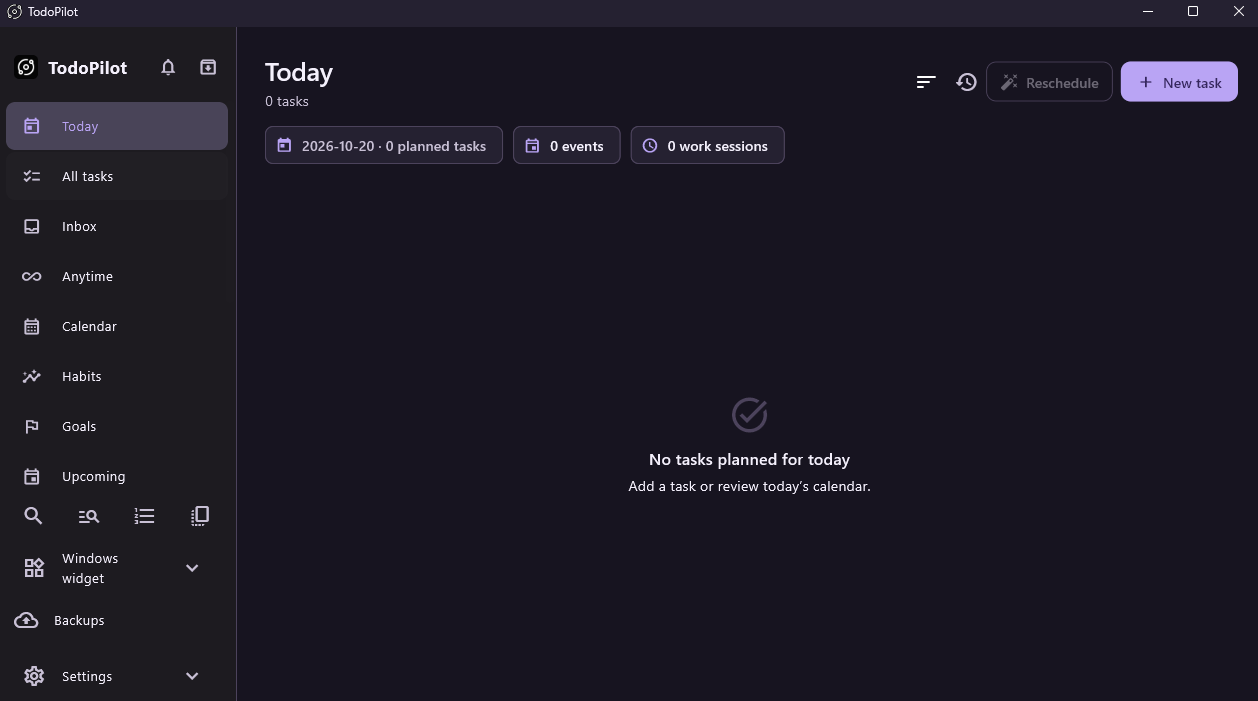
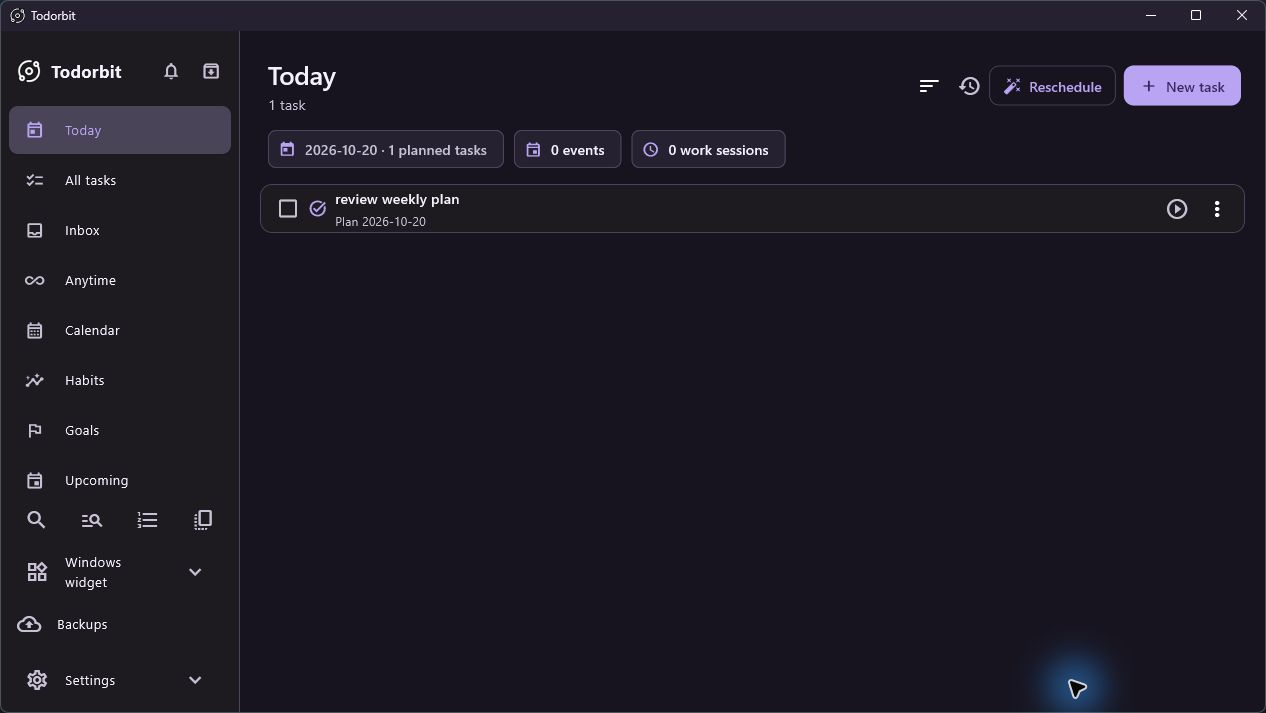
Correct Todorbit release screenshot and audit GitHub readiness

diff --git a/docs/RELEASE_AUDIT.md b/docs/RELEASE_AUDIT.md
@@ -11,7 +11,7 @@ The normal installed application and personal data were not used for acceptance.
 | Installed upgrade and uninstall | Inno Setup compiles, but a fresh install, registered TodoPilot upgrade, uninstall, and reinstall have not been run in a disposable Windows user or VM. Confirm profile selection, data retention, shortcuts, and widget sign-in migration with [the acceptance matrix](ACCEPTANCE.md). |
 | Native desktop behavior | A packaged widget self-test and earlier read-only Explorer attachment inspection do not prove Win+D visibility, wallpaper opacity, input, DPI, multiple monitors, or Explorer recovery. Complete the [manual widget checklist](windows-widget.md). |
 | Broad GUI acceptance | The extracted 1.0.3 portable app opened from a path with spaces and showed the renamed dark Today UI. A disposable task dated today appeared and persisted after restart; a second extraction was empty. The earlier isolated 1.0.2 app showed the outlined mark in both light and dark themes and completed an Anytime task. Other end-to-end flows in [the acceptance matrix](ACCEPTANCE.md) remain open. |
-| Distribution | The packages are unsigned, Windows 10 has not been tested, and the GitHub account and destination repository have not been confirmed. No public release is authorized. |
+| Distribution | The packages are unsigned and Windows 10 has not been tested. The authenticated `2HIK4` account and private `2HIK4/Todorbit` repository are confirmed. No public release is authorized. |
 
 ## Resolved decisions and release work
 
@@ -19,7 +19,15 @@ The normal installed application and personal data were not used for acceptance.
 - Public UI, executable, widget, shortcut, package, and documentation names use Todorbit. The installer AppId, `%LOCALAPPDATA%\Programs\Life Manager` installation directory, `%APPDATA%\TodoPilot` profile, older `%APPDATA%\Life Manager` profile, marker, and native IPC identifiers remain stable.
 - Upgrade packaging removes only exact old executable and shortcut names. It changes an existing widget sign-in entry only when it exactly matches the old installed executable; this still needs installed verification.
 - The bundle includes Flutter `NOTICES.Z`, the project `LICENSE`, Lucide attribution, .NET runtime and Windows Desktop licenses and notices, and SQLitePCLRaw license and notice. See [third-party notices](../THIRD_PARTY_NOTICES.md).
-- A Windows 2022 GitHub Actions workflow runs analysis, serial Flutter tests, Release build, and the packaged widget self-test. It has not run on GitHub yet.
+- The Windows 2022 GitHub Actions workflow passed analysis, serial Flutter tests, Release build, and the packaged widget self-test at tag `v1.0.3` (`919c618`).
+
+## GitHub and package verification on 2026-10-20
+
+- `v1.0.3` resolves to `919c618`; the existing private prerelease targets the development branch at that commit. All four observed Windows workflow runs passed, including the tag run. The only change after the original `67619fe` package checkpoint is the README screenshot; application source is unchanged. No binary or tag was replaced.
+- Local installer and portable hashes match `release/SHA256SUMS.txt` and the GitHub asset digests. The uploaded checksum file's digest also matches the local file. The ZIP CRC check passed; its 33 entries include four directory entries and 29 files. No database, backup, log, key, or obsolete executable appears in its entries. The installer remains unsigned; its installed behavior has not been tested.
+- The README, MIT license, contributor and security guidance, third-party notices, issue template, PR template, and source build commands are present. Visual inspection found that the screenshot committed at `919c618` displayed old TodoPilot branding and an empty Today view. The original `67619fe` sample-profile image shows Todorbit and a task and has been restored on the development branch. The immutable prerelease tag still contains the incorrect screenshot; resolving that tag snapshot requires a reviewed release strategy. A scoped scan of 51 Git revisions found no tracked private data paths or common token/private-key signatures; this does not prove the entire history contains no personal information.
+- GitHub vulnerability alerts were enabled. Branch protection returned HTTP 403 because this private repository's current plan does not provide that feature; Dependabot alert listing was unavailable. Review those settings after publication.
+- The existing prerelease notes have two malformed Portfolio/LinkedIn Markdown links and describe portable data only generally. A safe metadata-only correction would replace those links with standard `[Portfolio](...)` and `[LinkedIn](...)` links and point users to `docs/INSTALLATION.md` for the location-keyed `%APPDATA%\\TodoPilot` profile. The prerelease metadata was left unchanged pending the release review; no assets need replacement for this correction.
 
 ## Validation scope
 

diff --git a/docs/PROGRESS.md b/docs/PROGRESS.md
@@ -1,5 +1,27 @@
 # Progress
 
+## Final private GitHub review (2026-10-20)
+
+- Authenticated GitHub account `2HIK4` and private repository `2HIK4/Todorbit`
+  were confirmed. The four observed Windows CI runs passed, including tag
+  `v1.0.3` at `919c618`. GitHub vulnerability alerts were enabled. Branch
+  protection was unavailable on the current private repository plan.
+- The existing installer, portable ZIP, and checksum file hashes match their
+  uploaded GitHub asset digests. ZIP integrity passed. The ZIP has 29 files and
+  four directory entries with no personal data files found in its entry list.
+  The tag's application source matches the original package checkpoint; later
+  commits only changed the README screenshot.
+- Visual inspection exposed a screenshot regression at the tag: the file named
+  `todorbit-today.png` showed old TodoPilot branding and an empty Today page.
+  Restored the original 1.0.3 Todorbit sample screenshot on the development
+  branch. The existing tag still points at the bad screenshot and was not moved.
+  The prerelease body also contains malformed Portfolio and LinkedIn links;
+  corrections are described in `docs/RELEASE_AUDIT.md`.
+- A scoped scan of 51 Git revisions found no private data paths or common token
+  signatures. Formal name clearance, disposable-user installer acceptance,
+  native widget GUI checks, broader app flows, and Windows 10 remain open.
+
+
 ## Todorbit 1.0.3 public-release preparation (2026-10-20)
 
 - The creator selected **Todorbit** and approved the exact proposed MIT license

diff --git a/docs/DECISIONS.md b/docs/DECISIONS.md
@@ -1,5 +1,13 @@
 # Decisions
 
+- **Public branch and existing tag (2026-10-20):** prepare `main` as a linear
+  descendant of the reviewed development branch, preserving `master`, the
+  development branch, and all history. Keep `v1.0.3` and its uploaded assets
+  unchanged. The tag snapshot contains an incorrect README screenshot even
+  though the application source and binary digests match; do not silently
+  retag or replace packages to repair documentation.
+
+
 - **Public name and license (2026-10-20):** the creator selected Todorbit and
   explicitly approved the proposed MIT text with copyright to Hussam Alkhatib.
   Preserve the orbit artwork, stable installer AppId, legacy TodoPilot and Life
